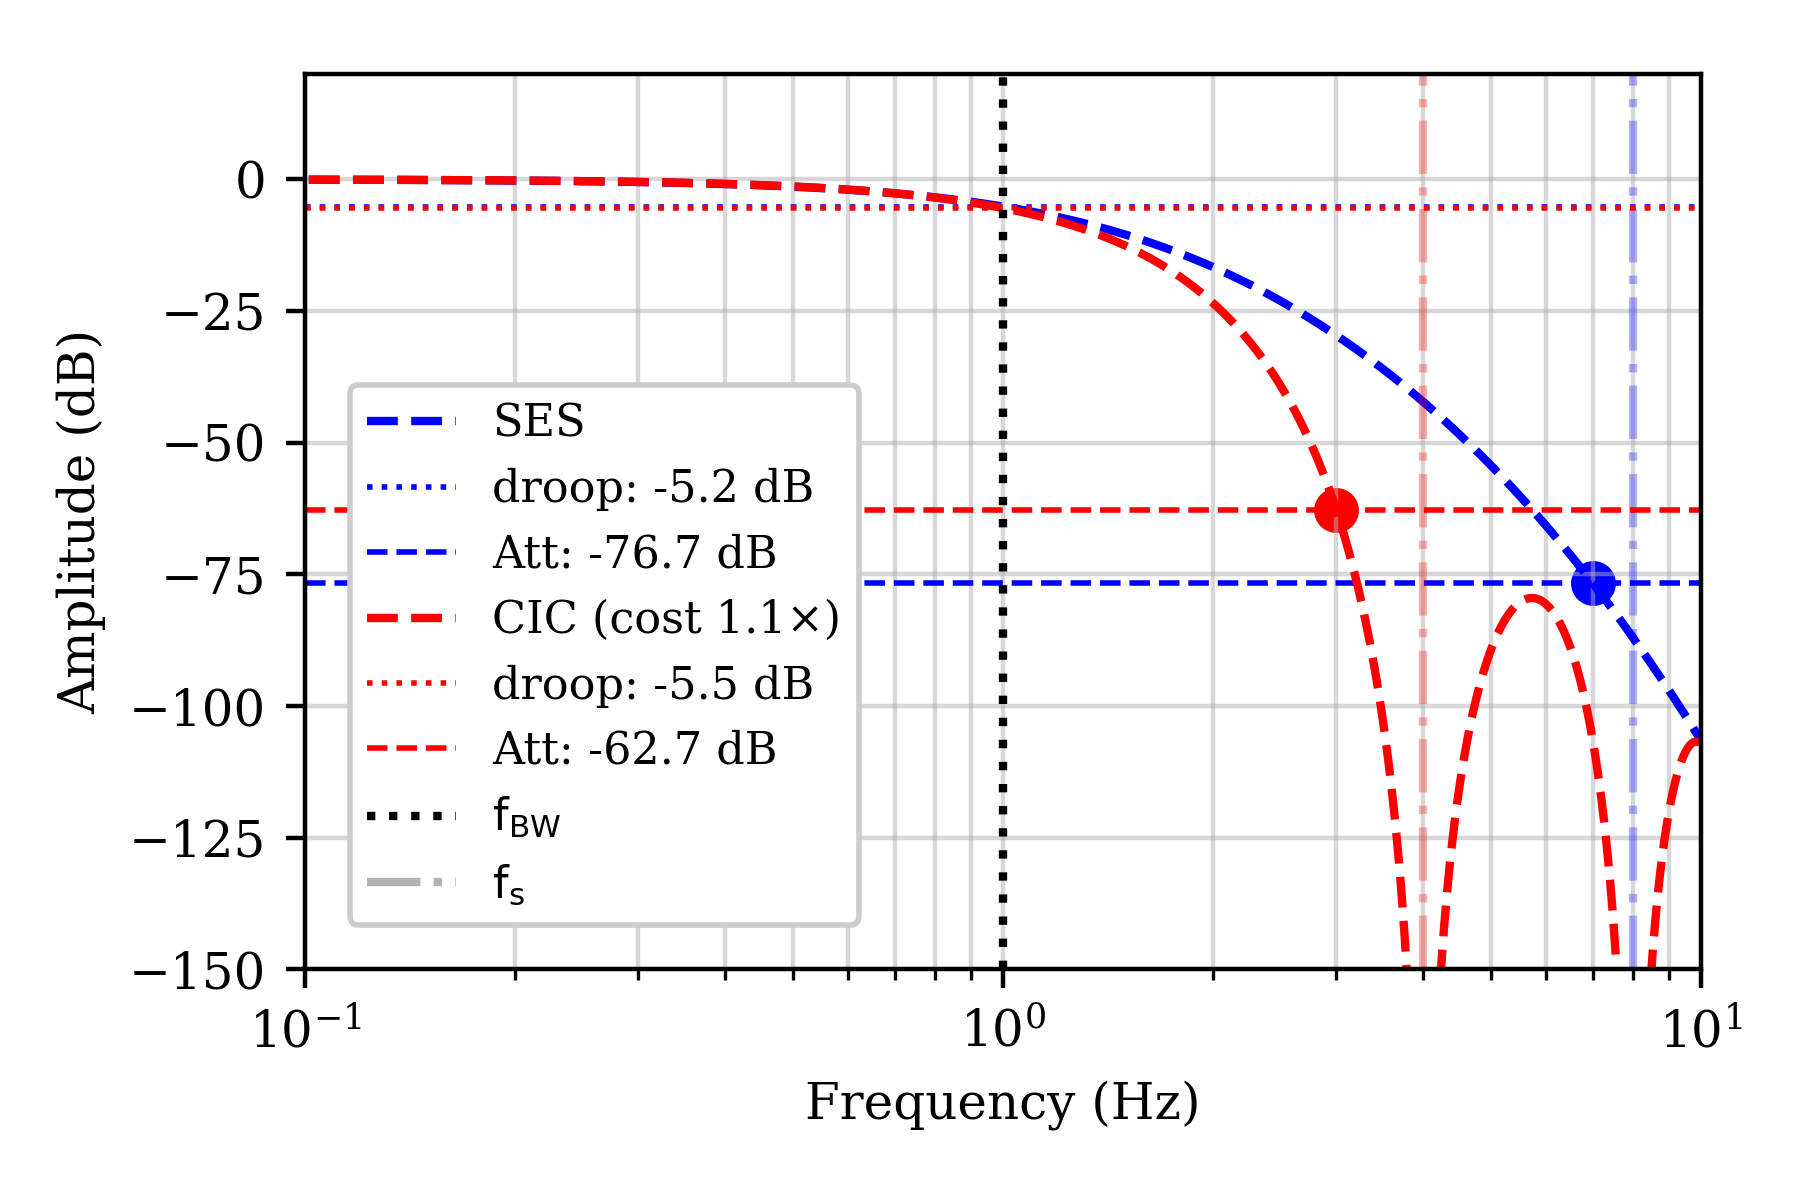
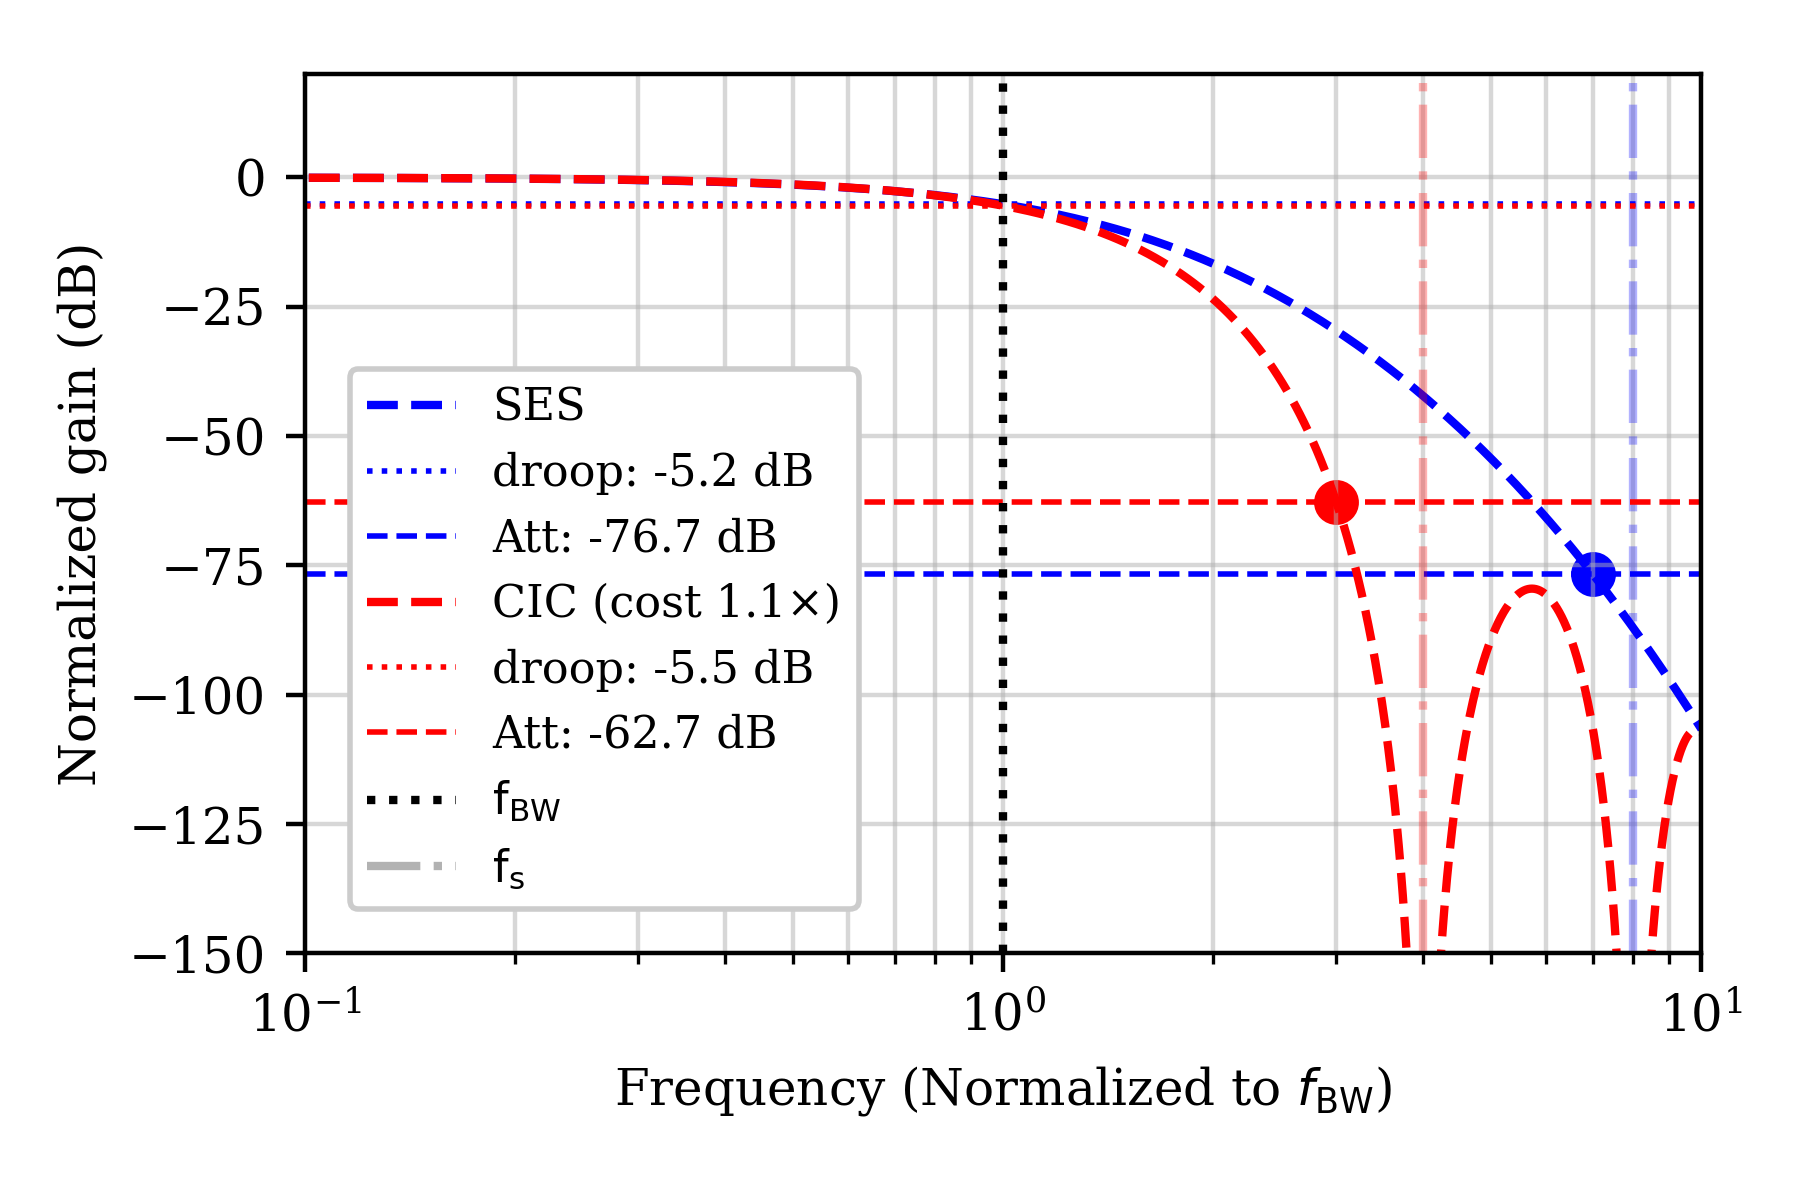
updated plots

diff --git a/sw/applications/dsm/extdriven_exploration/process_psd.py b/sw/applications/dsm/extdriven_exploration/process_psd.py
@@ -421,26 +421,7 @@ plt.savefig('figs/psd_analysis.png', dpi=400)
 # Compare against CIC
 
 
-def H_z_SES(wg, ww, N, fs=1e6):
-    # first stage (with gain)
-    b1 = [0, 2**(wg - ww)]
-    a1 = [1, -(1 - 2**(-ww))]
-
-    # remaining stages (no gain)
-    b2 = [0, 1]
-    a2 = [1, -(1 - 2**(-ww))]
-
-    w, h1 = signal.freqz(b1, a1, worN=8000)
-    _, h2 = signal.freqz(b2, a2, worN=8000)
-
-    # cascade
-    h_total = h1 * (h2 ** (N - 1))
-
-    freq_hz = w * fs / (2*np.pi)
-    return freq_hz, 20*np.log10(np.abs(h_total) + 1e-12)
-
-
-def H_z_SES2(wg, ww0, wwi, fs=1e6):
+def H_z_SES(wg, ww0, wwi, fs=1e6):
     # first stage (with gain)
     b1 = [0, 2**(wg - ww0)]
     a1 = [1, -(1 - 2**(-ww0))]
@@ -490,26 +471,11 @@ def H_z_CIC(N, D, R, fs=1e6):
     return freq_hz, magnitude_db
 
 
-# def H_z_CIC(D, N, fs=1e6):
-#     # single CIC stage: (1 - z^-D) / (1 - z^-1)
-#     b = np.zeros(D + 1)
-#     b[0] = 1
-#     b[-1] = -1
-#     a = [1, -1]
-
-#     w, h = signal.freqz(b, a, worN=8000)
-
-#     # cascade N identical stages
-#     h_total = h ** N
-
-#     freq_hz = w * fs / (2*np.pi)
-#     return freq_hz, 20*np.log10(np.abs(h_total) + 1e-12)
-
 %matplotlib widget
 
-compare_cost    = 1
+compare_cost    = 0
 compare_droop   = 0
-compare_atte    = 0
+compare_atte    = 1
 
 if compare_cost:
     # SES params
@@ -561,7 +527,7 @@ fs_Hz   = fnyq_Hz*100 #  1e6
 plt.rcParams.update({'font.size': 9, 'font.family': 'serif'})
 fig, axs = plt.subplots(figsize=(4.5,3), sharex=True)
 
-ses_Hz, ses_dB = H_z_SES2(wg=ses_wg, ww0=ses_ww1[0], wwi=np.concatenate((ses_ww1[1:],ses_ww2)), fs=fs_Hz)
+ses_Hz, ses_dB = H_z_SES(wg=ses_wg, ww0=ses_ww1[0], wwi=np.concatenate((ses_ww1[1:],ses_ww2)), fs=fs_Hz)
 ses_dB -= ses_dB[1]
 
 alias_f = (fs_Hz / ses_df) - fnyq_Hz/2
@@ -620,17 +586,17 @@ axs.axvline(0,linestyle='-.', linewidth=1.5, color='black', alpha=0.3, label=r'$
 
 
 
-axs.set_ylabel("Amplitude (dB)")
+axs.set_ylabel("Normalized gain (dB)")
 # axs.set_ylim(-50,32)
 axs.grid(which='both', alpha=0.5)
 axs.legend(loc='lower left', fontsize=8, borderaxespad=1, framealpha=1)
 plt.xscale("log")
 # plt.xlim(200, 50e3)
-plt.xlabel("Frequency (Hz)")
+plt.xlabel(r"Frequency (Normalized to $f_\text{BW}$)")
 plt.ylim(-150,20)
 plt.xlim(1e-1,1e1)
 
 plt.tight_layout()
-plt.savefig("./figs/SES_vs_CIC_H(z).png", dpi=400)
+plt.savefig(f"./figs/SES_vs_CIC_H(z)_{'cost' if compare_cost else 'droop' if compare_droop else 'att'}.png", dpi=400)
 plt.show()
 
